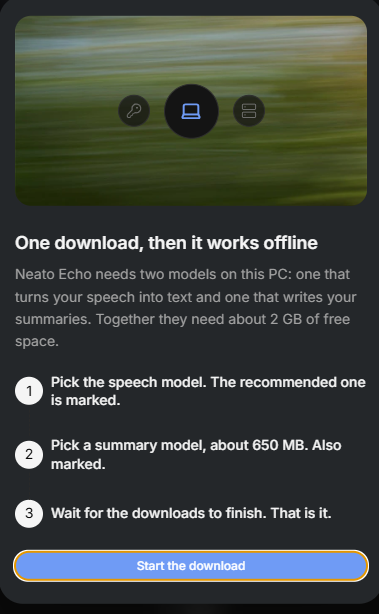
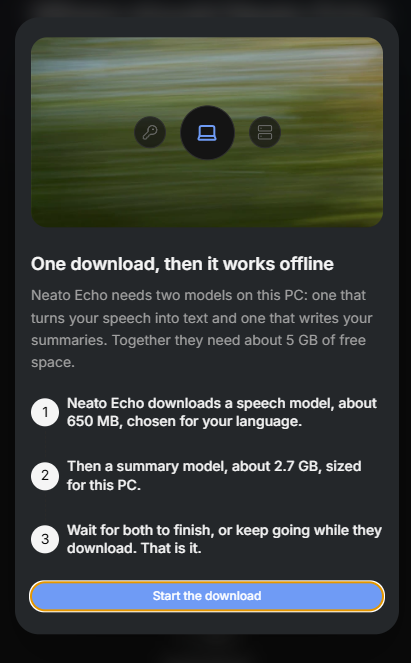
Docs: install guide updated for the automatic setup and meeting shortcut (1.1.2 screenshots)

diff --git a/docs/install-step-by-step.html b/docs/install-step-by-step.html
@@ -80,7 +80,7 @@
             <p class="doc-lede">Every screen you will see from the download to your first dictation, with pictures.</p>
           </header>
           <div class="doc-body">
-<p>This is the whole first-run, screen by screen. It takes about ten minutes, most of it waiting for two downloads. The pictures are from version 1.0.5; newer versions have polished a few words and highlight the recommended models, but the choices are the same.</p>
+<p>This is the whole first-run, screen by screen. It takes about ten minutes, most of it waiting for two downloads. The pictures are from version 1.1.2.</p>
 <h2 id="before-you-start"><a class="anchor" href="#before-you-start" aria-label="Link to this section">Before you start</a></h2>
 <ul>
 <li>A Windows 10 or 11 PC (64-bit) with about 5 GB of free disk space.</li>
@@ -123,19 +123,20 @@
 <h2 id="7-tap-or-hold"><a class="anchor" href="#7-tap-or-hold" aria-label="Link to this section">7. Tap or hold</a></h2>
 <p>Choose what a press does. <strong>Tap</strong> starts listening on one press and stops on the next, which suits longer dictation. <strong>Hold</strong> listens only while you keep the keys down, like a walkie-talkie. You can change this later in Settings, Hotkeys. Click <strong>Continue</strong>.</p>
 <p><img src="/docs/assets/howto/10-tap-or-hold.png" alt="How should your shortcut work? Mode: Tap or Hold."></p>
-<h2 id="8-choose-where-neato-echo-thinks"><a class="anchor" href="#8-choose-where-neato-echo-thinks" aria-label="Link to this section">8. Choose where Neato Echo thinks</a></h2>
+<h2 id="8-pick-your-meeting-shortcut"><a class="anchor" href="#8-pick-your-meeting-shortcut" aria-label="Link to this section">8. Pick your meeting shortcut</a></h2>
+<p>This key starts meeting notes from inside any call, without opening the app. The recommended shortcut is <strong>Ctrl + Alt + M</strong>, which is free in Zoom, Teams, and Meet. Press the keys you want to use.</p>
+<p><img src="/docs/assets/howto/10b-meeting-shortcut.png" alt="Set up your meeting shortcut. Recommended Ctrl + Alt + M. Press the keys you want to use."></p>
+<h2 id="9-choose-where-neato-echo-thinks"><a class="anchor" href="#9-choose-where-neato-echo-thinks" aria-label="Link to this section">9. Choose where Neato Echo thinks</a></h2>
 <p>Choose <strong>Set up on this PC</strong>. Everything you say stays on your machine, there is no account, and it works offline once the downloads finish. The <strong>Advanced</strong> option is for people who want to use their own API key with a cloud provider instead; see <a href="/docs/guides/cloud-vs-local.html">Cloud vs local processing</a>.</p>
 <p><img src="/docs/assets/howto/11-where-it-thinks.png" alt="Where should Neato Echo do its thinking? On this PC, recommended, with a Set up on this PC button."></p>
-<p>A short explanation appears: one speech model, one summary model, then wait. Click <strong>Start the download</strong>.</p>
-<p><img src="/docs/assets/howto/12-one-download.png" alt="One download, then it works offline. Pick the speech model, pick a summary model, wait for the downloads to finish."></p>
-<h2 id="9-download-the-speech-model"><a class="anchor" href="#9-download-the-speech-model" aria-label="Link to this section">9. Download the speech model</a></h2>
-<p>Pick one model and click <strong>Download</strong>. The recommended one is marked and works for every language. If you dictate only in English and want to see the words appear while you are still talking, choose <strong>Nemotron Speech Streaming EN</strong> instead. You can switch later in Settings, Speech-to-Text.</p>
-<p><img src="/docs/assets/howto/13-speech-model.png" alt="Download your models, Speech step. NVIDIA provider with Parakeet TDT 0.6B recommended, Nemotron Speech Streaming downloading."></p>
-<p>When the download finishes the row shows <strong>Selected</strong>. Click <strong>Proceed</strong>.</p>
-<h2 id="10-download-the-summary-model"><a class="anchor" href="#10-download-the-summary-model" aria-label="Link to this section">10. Download the summary model</a></h2>
-<p>This model writes your meeting summaries and answers the assistant. <strong>Qwen 3.5 4B</strong> is the recommended one for most PCs. Click <strong>Download</strong>, wait, then <strong>Proceed</strong>. This one is about 2.7 GB, so it is the long wait.</p>
-<p><img src="/docs/assets/howto/14-summary-model.png" alt="Download your models, Summaries step. Qwen provider with Qwen3.5 4B recommended."></p>
-<p><img src="/docs/assets/howto/15-summary-downloading.png" alt="The same screen while Qwen3.5 4B is downloading, with a progress bar at the bottom right."></p>
+<p>A short explanation appears: a speech model chosen for your language, a summary model sized for this PC, and about 5 GB of free space between them. Click <strong>Start the download</strong>.</p>
+<p><img src="/docs/assets/howto/12-one-download.png" alt="One download, then it works offline: a speech model of about 650 MB, then a summary model of about 2.7 GB. Start the download button."></p>
+<h2 id="10-wait-while-your-pc-gets-ready"><a class="anchor" href="#10-wait-while-your-pc-gets-ready" aria-label="Link to this section">10. Wait while your PC gets ready</a></h2>
+<p>Neato Echo picks both models for you and downloads them at the same time. Nothing to choose here. The two rows show progress, and a small panel at the bottom right tracks each download.</p>
+<p><img src="/docs/assets/howto/13-getting-ready.png" alt="Getting your PC ready. Speech at 58 percent, Summaries at 0 percent, one progress bar, a disabled Downloading button."></p>
+<p>The summary model is about 2.7 GB, so this is the long wait. You can click <strong>Continue now</strong> to go ahead while it finishes in the background; the models switch on by themselves when done. <strong>Advanced: choose different models</strong> opens the full picker if you know you want something else.</p>
+<p>When both rows say <strong>Ready</strong>, click <strong>Start using Neato Echo</strong>.</p>
+<p><img src="/docs/assets/howto/14-all-set.png" alt="Getting your PC ready. Speech Ready, Summaries Ready, All set. Start using Neato Echo button."></p>
 <h2 id="11-you-are-in"><a class="anchor" href="#11-you-are-in" aria-label="Link to this section">11. You are in</a></h2>
 <p>The Home screen opens. Two things to notice:</p>
 <ul>
@@ -143,7 +144,7 @@
 <li><strong>Connect your calendar</strong>: optional. It titles your meeting notes and lists what is coming up. See <a href="/docs/help/meetings/connect-your-calendar.html">Connect Google or Microsoft calendar</a>.</li>
 </ul>
 <p><img src="/docs/assets/howto/16-home.png" alt="The Neato Echo Home screen: GPU acceleration available, no transcriptions yet, Connect your calendar."></p>
-<p>The &quot;Press … to start&quot; hint under Transcriptions names your dictation shortcut. If it shows a key you did not choose, open Settings, Hotkeys, and set it there.</p>
+<p>The &quot;Press Ctrl+Win to start&quot; hint under Transcriptions names your dictation shortcut.</p>
 <h2 id="12-your-first-dictation"><a class="anchor" href="#12-your-first-dictation" aria-label="Link to this section">12. Your first dictation</a></h2>
 <p>Click into any text box, for example a new email. Press your shortcut, say a sentence, and press it again (or let go, in Hold mode). The words appear at your cursor.</p>
 <p>The very first dictation after install can take longer while the speech model loads. After that it is quick, and with a streaming model the words show up as you speak.</p>
@@ -191,7 +192,7 @@
         </section>
         </article>
       </main>
-<aside class="docs-toc" aria-labelledby="toc-title"><h3 id="toc-title">On this page</h3><ol><li class="toc-2"><a href="#before-you-start">Before you start</a></li><li class="toc-2"><a href="#1-download-the-installer">1. Download the installer</a></li><li class="toc-2"><a href="#2-windows-asks-if-you-are-sure">2. Windows asks if you are sure</a></li><li class="toc-2"><a href="#3-choose-who-it-is-for">3. Choose who it is for</a></li><li class="toc-2"><a href="#4-choose-the-folder-and-install">4. Choose the folder and install</a></li><li class="toc-2"><a href="#5-allow-the-microphone-and-screen-context">5. Allow the microphone and screen context</a></li><li class="toc-2"><a href="#6-pick-your-dictation-shortcut">6. Pick your dictation shortcut</a></li><li class="toc-2"><a href="#7-tap-or-hold">7. Tap or hold</a></li><li class="toc-2"><a href="#8-choose-where-neato-echo-thinks">8. Choose where Neato Echo thinks</a></li><li class="toc-2"><a href="#9-download-the-speech-model">9. Download the speech model</a></li><li class="toc-2"><a href="#10-download-the-summary-model">10. Download the summary model</a></li><li class="toc-2"><a href="#11-you-are-in">11. You are in</a></li><li class="toc-2"><a href="#12-your-first-dictation">12. Your first dictation</a></li><li class="toc-2"><a href="#related">Related</a></li></ol></aside>
+<aside class="docs-toc" aria-labelledby="toc-title"><h3 id="toc-title">On this page</h3><ol><li class="toc-2"><a href="#before-you-start">Before you start</a></li><li class="toc-2"><a href="#1-download-the-installer">1. Download the installer</a></li><li class="toc-2"><a href="#2-windows-asks-if-you-are-sure">2. Windows asks if you are sure</a></li><li class="toc-2"><a href="#3-choose-who-it-is-for">3. Choose who it is for</a></li><li class="toc-2"><a href="#4-choose-the-folder-and-install">4. Choose the folder and install</a></li><li class="toc-2"><a href="#5-allow-the-microphone-and-screen-context">5. Allow the microphone and screen context</a></li><li class="toc-2"><a href="#6-pick-your-dictation-shortcut">6. Pick your dictation shortcut</a></li><li class="toc-2"><a href="#7-tap-or-hold">7. Tap or hold</a></li><li class="toc-2"><a href="#8-pick-your-meeting-shortcut">8. Pick your meeting shortcut</a></li><li class="toc-2"><a href="#9-choose-where-neato-echo-thinks">9. Choose where Neato Echo thinks</a></li><li class="toc-2"><a href="#10-wait-while-your-pc-gets-ready">10. Wait while your PC gets ready</a></li><li class="toc-2"><a href="#11-you-are-in">11. You are in</a></li><li class="toc-2"><a href="#12-your-first-dictation">12. Your first dictation</a></li><li class="toc-2"><a href="#related">Related</a></li></ol></aside>
     </div>
 
 

diff --git a/docs-src/install-step-by-step.md b/docs-src/install-step-by-step.md
@@ -3,7 +3,7 @@ title: Install, step by step
 description: Every screen you will see from the download to your first dictation, with pictures.
 ---
 
-This is the whole first-run, screen by screen. It takes about ten minutes, most of it waiting for two downloads. The pictures are from version 1.0.5; newer versions have polished a few words and highlight the recommended models, but the choices are the same.
+This is the whole first-run, screen by screen. It takes about ten minutes, most of it waiting for two downloads. The pictures are from version 1.1.2.
 
 ## Before you start
 
@@ -71,31 +71,33 @@ Choose what a press does. **Tap** starts listening on one press and stops on the
 
 ![How should your shortcut work? Mode: Tap or Hold.](/docs/assets/howto/10-tap-or-hold.png)
 
-## 8. Choose where Neato Echo thinks
+## 8. Pick your meeting shortcut
+
+This key starts meeting notes from inside any call, without opening the app. The recommended shortcut is **Ctrl + Alt + M**, which is free in Zoom, Teams, and Meet. Press the keys you want to use.
+
+![Set up your meeting shortcut. Recommended Ctrl + Alt + M. Press the keys you want to use.](/docs/assets/howto/10b-meeting-shortcut.png)
+
+## 9. Choose where Neato Echo thinks
 
 Choose **Set up on this PC**. Everything you say stays on your machine, there is no account, and it works offline once the downloads finish. The **Advanced** option is for people who want to use their own API key with a cloud provider instead; see [Cloud vs local processing](/guides/cloud-vs-local).
 
 ![Where should Neato Echo do its thinking? On this PC, recommended, with a Set up on this PC button.](/docs/assets/howto/11-where-it-thinks.png)
 
-A short explanation appears: one speech model, one summary model, then wait. Click **Start the download**.
+A short explanation appears: a speech model chosen for your language, a summary model sized for this PC, and about 5 GB of free space between them. Click **Start the download**.
 
-![One download, then it works offline. Pick the speech model, pick a summary model, wait for the downloads to finish.](/docs/assets/howto/12-one-download.png)
+![One download, then it works offline: a speech model of about 650 MB, then a summary model of about 2.7 GB. Start the download button.](/docs/assets/howto/12-one-download.png)
 
-## 9. Download the speech model
+## 10. Wait while your PC gets ready
 
-Pick one model and click **Download**. The recommended one is marked and works for every language. If you dictate only in English and want to see the words appear while you are still talking, choose **Nemotron Speech Streaming EN** instead. You can switch later in Settings, Speech-to-Text.
+Neato Echo picks both models for you and downloads them at the same time. Nothing to choose here. The two rows show progress, and a small panel at the bottom right tracks each download.
 
-![Download your models, Speech step. NVIDIA provider with Parakeet TDT 0.6B recommended, Nemotron Speech Streaming downloading.](/docs/assets/howto/13-speech-model.png)
+![Getting your PC ready. Speech at 58 percent, Summaries at 0 percent, one progress bar, a disabled Downloading button.](/docs/assets/howto/13-getting-ready.png)
 
-When the download finishes the row shows **Selected**. Click **Proceed**.
+The summary model is about 2.7 GB, so this is the long wait. You can click **Continue now** to go ahead while it finishes in the background; the models switch on by themselves when done. **Advanced: choose different models** opens the full picker if you know you want something else.
 
-## 10. Download the summary model
+When both rows say **Ready**, click **Start using Neato Echo**.
 
-This model writes your meeting summaries and answers the assistant. **Qwen 3.5 4B** is the recommended one for most PCs. Click **Download**, wait, then **Proceed**. This one is about 2.7 GB, so it is the long wait.
-
-![Download your models, Summaries step. Qwen provider with Qwen3.5 4B recommended.](/docs/assets/howto/14-summary-model.png)
-
-![The same screen while Qwen3.5 4B is downloading, with a progress bar at the bottom right.](/docs/assets/howto/15-summary-downloading.png)
+![Getting your PC ready. Speech Ready, Summaries Ready, All set. Start using Neato Echo button.](/docs/assets/howto/14-all-set.png)
 
 ## 11. You are in
 
@@ -106,7 +108,7 @@ The Home screen opens. Two things to notice:
 
 ![The Neato Echo Home screen: GPU acceleration available, no transcriptions yet, Connect your calendar.](/docs/assets/howto/16-home.png)
 
-The "Press … to start" hint under Transcriptions names your dictation shortcut. If it shows a key you did not choose, open Settings, Hotkeys, and set it there.
+The "Press Ctrl+Win to start" hint under Transcriptions names your dictation shortcut.
 
 ## 12. Your first dictation
 
